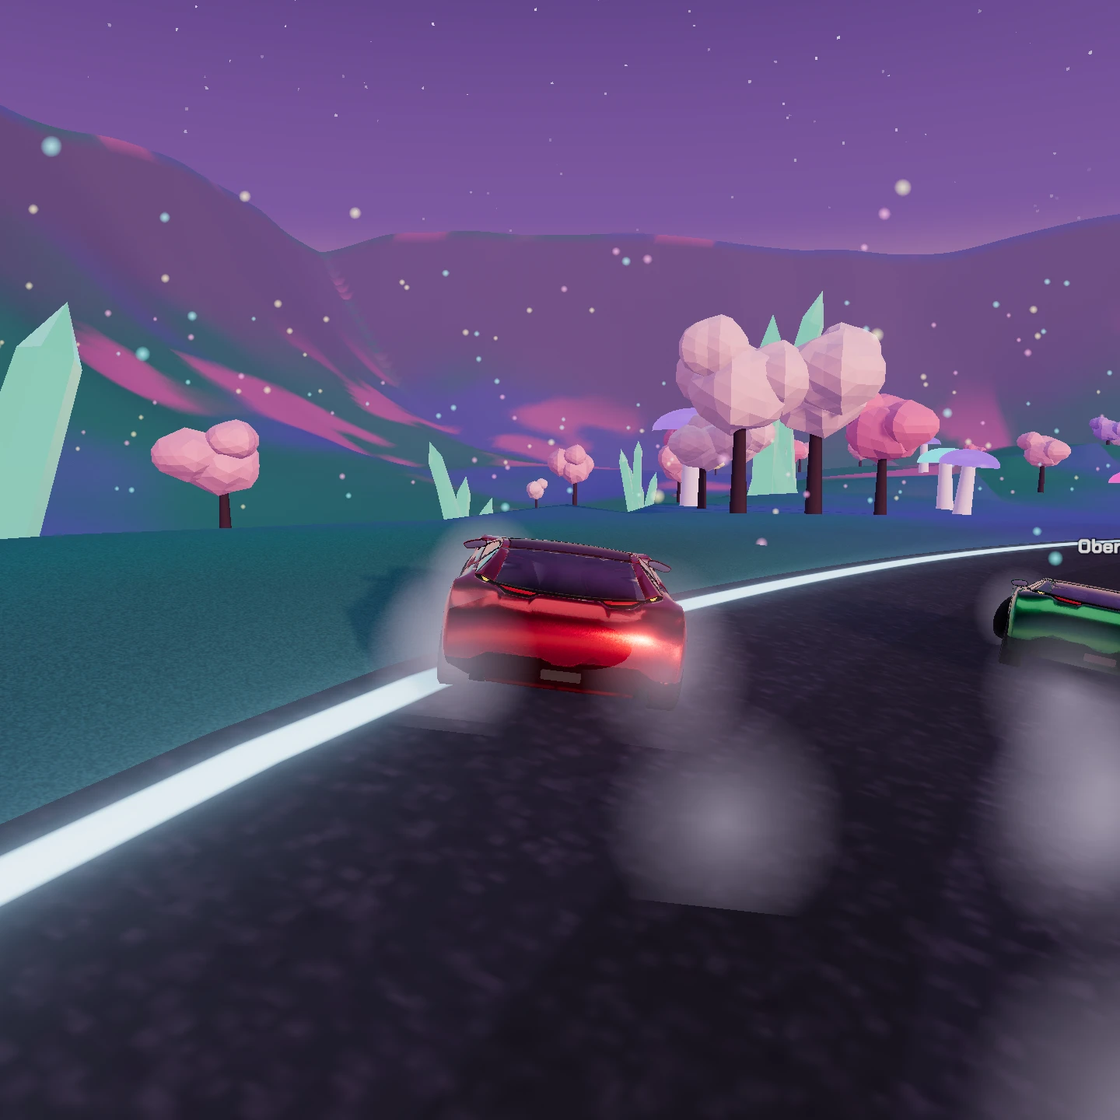
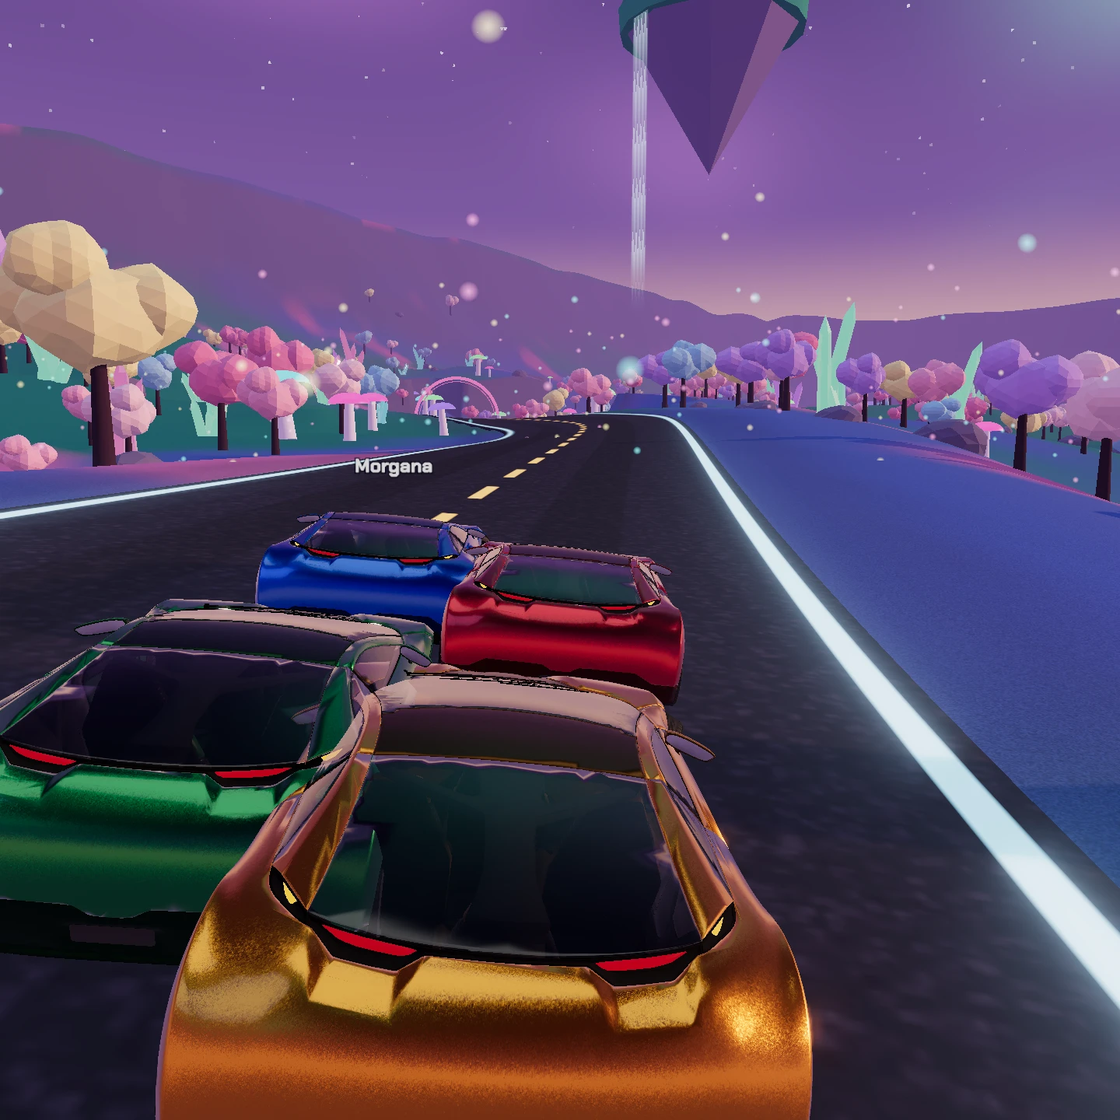
Trackaholic: tilt to steer, drift and nitro
On phones and tablets the car now steers by turning the device like a
steering wheel, where the device allows, with a Steering button beside
Sound to switch back to dragging. Holding the left half of the screen
brakes, or drifts when turning at speed: a light brake with the throttle
on and less grip at the back. Holding the right half fires the nitro, a
tank of extra power that drifting refills faster, shown by a meter under
the lap counter. Drag steering gains a Nitro button and its brake drifts
too; on a keyboard Space drifts and Shift fires the nitro. Bots drive as
before.

diff --git a/static-assets/toys/trackaholic/index.html b/static-assets/toys/trackaholic/index.html
@@ -57,6 +57,18 @@ body{-webkit-user-select:none;user-select:none;-webkit-tap-highlight-color:trans
 .pbtn{position:absolute;border:0;pointer-events:auto;touch-action:none;font:700 16px/1 var(--ui);letter-spacing:.12em;text-transform:uppercase}
 #bBrake{right:max(16px,env(safe-area-inset-right,0px));bottom:calc(env(safe-area-inset-bottom,0px) + 18px);width:clamp(96px,26vw,140px);height:clamp(96px,26vw,140px);border-radius:50%;background:rgba(255,122,200,.88);color:var(--ink);box-shadow:0 0 0 3px rgba(246,243,255,.5)}
 #bBrake.on{background:var(--snow);transform:scale(.96)}
+#bNitro{right:max(16px,env(safe-area-inset-right,0px));bottom:calc(env(safe-area-inset-bottom,0px) + 30px + clamp(96px,26vw,140px));width:clamp(72px,19vw,100px);height:clamp(72px,19vw,100px);border-radius:50%;background:rgba(111,244,255,.88);color:var(--ink);box-shadow:0 0 0 3px rgba(246,243,255,.5)}
+#bNitro.on{background:var(--snow);transform:scale(.96)}
+/* tilt steering: the left half brakes (and drifts in a bend), the right half fires the nitro */
+.tzone{position:absolute;top:0;bottom:0;width:50%;pointer-events:auto;touch-action:none;display:none}
+#tiltL{left:0}#tiltR{right:0}
+.tzone span{position:absolute;bottom:calc(env(safe-area-inset-bottom,0px) + 20px);font:700 13px/1.3 var(--ui);letter-spacing:.12em;text-transform:uppercase;opacity:.7;text-shadow:0 1px 4px var(--ink)}
+#tiltL span{left:max(16px,env(safe-area-inset-left,0px))}#tiltR span{right:max(16px,env(safe-area-inset-right,0px));text-align:right}
+.tzone.on{background:radial-gradient(circle at 50% 80%,rgba(246,243,255,.12),transparent 60%)}
+#pad.tilt .tzone{display:block}#pad.tilt #steerZone,#pad.tilt #bBrake,#pad.tilt #bNitro{display:none}
+#hNitro{width:96px;height:6px;border-radius:3px;background:rgba(246,243,255,.2);overflow:hidden;margin-top:4px}
+#hNitro i{display:block;height:100%;width:100%;background:var(--glow);transform-origin:left;box-shadow:0 0 8px var(--glow)}
+#hNitro.on i{background:var(--snow)}
 #bBrake small{display:block;font-size:10px;letter-spacing:.08em;margin-top:5px;opacity:.75}
 #bReset{left:50%;transform:translateX(-50%);top:calc(env(safe-area-inset-top,0px) + 12px);padding:8px 12px;background:var(--ink2);color:var(--snow);border:1px solid var(--mist);font-size:11px}
 /* screens */
@@ -127,8 +139,10 @@ body.hostdrive #tvBar .btn{white-space:nowrap}
 #scanner video{width:min(92vw,520px);max-height:62vh;object-fit:cover;border:3px solid var(--snow)}
 #scanMsg{font:700 16px/1.3 var(--ui);margin:0;text-align:center}
 #netNote{position:absolute;left:50%;bottom:calc(env(safe-area-inset-bottom,0px) + 16px);transform:translateX(-50%);background:var(--rose);color:var(--ink);font:700 15px/1.3 var(--ui);padding:10px 14px;border-radius:8px;max-width:calc(100% - 32px);z-index:9}
-#mute{position:absolute;bottom:calc(env(safe-area-inset-bottom,0px) + 14px);left:50%;transform:translateX(-50%);font:700 11px/1 var(--ui);letter-spacing:.14em;text-transform:uppercase;background:var(--ink2);color:var(--snow);border:1px solid var(--mist);border-radius:999px;padding:7px 11px;cursor:pointer}
-body.racing #mute{display:none}
+#pills{position:absolute;bottom:calc(env(safe-area-inset-bottom,0px) + 14px);left:50%;transform:translateX(-50%);display:flex;gap:8px}
+#pills button{font:700 11px/1 var(--ui);letter-spacing:.14em;text-transform:uppercase;background:var(--ink2);color:var(--snow);border:1px solid var(--mist);border-radius:999px;padding:7px 11px;cursor:pointer}
+body.racing #pills{display:none}
+#steerMode[hidden]{display:none}
 .touchonly{display:none}
 @media (pointer:coarse){.touchonly{display:contents}.deskonly{display:none}}
 </style>
@@ -138,7 +152,7 @@ body.racing #mute{display:none}
 <div id="ui">
   <div id="hud" hidden>
     <div class="c tl"><div id="hPos" class="big">1<sup>st</sup></div><div class="lbl" id="hOf">of 1</div></div>
-    <div class="c tr"><div id="hTime" class="mid num">0:00.00</div><div class="lbl" id="hLap">Lap 1 / 3</div></div>
+    <div class="c tr"><div id="hTime" class="mid num">0:00.00</div><div class="lbl" id="hLap">Lap 1 / 3</div><div id="hNitro" title="Nitro"><i></i></div></div>
     <div class="c br deskonly"><div id="hSpd">0</div><div class="lbl">km/h</div></div>
     <div id="hWrong" hidden>Wrong way</div>
     <div id="call"></div>
@@ -147,7 +161,10 @@ body.racing #mute{display:none}
   <canvas id="mini" hidden></canvas>
   <div id="pad" hidden>
     <div id="steerZone"><div id="stick"><i></i></div><div id="stickHint">Drag here to steer. The car accelerates by itself.</div></div>
-    <button class="pbtn" id="bBrake" type="button">Brake<small>hold to reverse</small></button>
+    <button class="pbtn" id="bBrake" type="button">Brake<small>drift in a bend</small></button>
+    <button class="pbtn" id="bNitro" type="button">Nitro</button>
+    <div class="tzone" id="tiltL"><span>Hold to brake<br>or drift</span></div>
+    <div class="tzone" id="tiltR"><span>Hold for<br>nitro</span></div>
     <button class="pbtn" id="bReset" type="button">Back on track</button>
   </div>
   <div id="tv" hidden>
@@ -166,11 +183,14 @@ body.racing #mute{display:none}
         <dl class="keys deskonly">
           <dt>↑ ↓</dt><dd>Accelerate, brake. Hold ↓ when stopped to reverse.</dd>
           <dt>← →</dt><dd>Steer</dd>
+          <dt>Space</dt><dd>Drift: brake into a bend at speed and the back steps out</dd>
+          <dt>Shift</dt><dd>Nitro, while the meter lasts. Drifting refills it faster.</dd>
           <dt>R</dt><dd>Back on track</dd>
         </dl>
         <dl class="keys touchonly">
-          <dt>Left thumb</dt><dd>Drag sideways to steer</dd>
-          <dt>Right thumb</dt><dd>Brake. The car accelerates by itself. Hold Brake when stopped to reverse.</dd>
+          <dt>Tilt</dt><dd>Turn the device like a steering wheel. The car accelerates by itself. (Or drag to steer: see the Steering button.)</dd>
+          <dt>Left side</dt><dd>Hold to brake. In a bend at speed, it drifts. Hold when stopped to reverse.</dd>
+          <dt>Right side</dt><dd>Hold for nitro, while the meter lasts. Drifting refills it faster.</dd>
         </dl>
       </div>
       <div class="row">
@@ -241,7 +261,7 @@ body.racing #mute{display:none}
 
   <div id="scanner" hidden><video id="video" playsinline muted></video><p id="scanMsg"></p><button class="btn" id="scanCancel" type="button">Cancel</button></div>
   <div id="netNote" hidden></div>
-  <button id="mute" type="button">Sound on</button>
+  <div id="pills"><button id="steerMode" type="button" hidden>Steering: Tilt</button><button id="mute" type="button">Sound on</button></div>
 </div>
 
 <script src="https://cdnjs.cloudflare.com/ajax/libs/qrcode-generator/1.4.4/qrcode.min.js"></script>
@@ -392,7 +412,7 @@ function setWheelGeometry(list){ // list of {name, x, z} in model coordinates (m
 setWheelGeometry([{name:'WheelFrontL',x:0.976,z:1.485},{name:'WheelFrontR',x:-0.976,z:1.485},{name:'WheelRearL',x:0.983,z:-1.314},{name:'WheelRearR',x:-0.983,z:-1.314}]);
 function newCar(id,name,color,kind){
   return{id,name,color,kind,local:false,p:new THREE.Vector3(),q:new THREE.Quaternion(),v:new THREE.Vector3(),w:new THREE.Vector3(),
-    steer:0,thr:0,brk:0,rev:false,revT:0,wc:[0,0,0,0],wcPrev:[0,0,0,0],spin:[0,0,0,0],skid:[0,0,0,0],contact:[false,false,false,false],
+    steer:0,thr:0,brk:0,rev:false,revT:0,nitro:1,boost:false,wc:[0,0,0,0],wcPrev:[0,0,0,0],spin:[0,0,0,0],skid:[0,0,0,0],contact:[false,false,false,false],
     idx:0,lap:0,cp:true,prog:0,done:false,time:0,lapStart:0,best:0,flipT:0,offT:0,wrongT:0,grass:false,hint:-1,slipMax:0,
     buf:[],rs:null,model:null,ai:{lane:0,lt:0,skill:1,prevE:0},bumped:0};
 }
@@ -423,6 +443,10 @@ function stepCar(c,inp,h){
   if(brk>0.5&&vf<0.8&&thr<0.1){c.revT+=h;if(c.revT>0.25)c.rev=true}else c.revT=0;
   if(thr>0.1||brk<0.1)c.rev=c.rev&&brk>0.1&&thr<0.1;
   let drive=thr,brakeIn=brk;if(c.rev){drive=-brk*0.6;brakeIn=0}
+  // a drift is a light brake with the rear tyres letting go; nitro adds power from a tank that drifting refills faster
+  const drifting=!!inp.drift&&vf>9&&!c.rev&&!c.done;if(drifting)brakeIn*=0.25;
+  c.boost=!!inp.nitro&&c.nitro>0&&!c.rev&&!c.done;
+  if(c.boost){c.nitro=Math.max(0,c.nitro-h/2.6);drive=1}else c.nitro=Math.min(1,c.nitro+h/9+(drifting?h/2.5:0));
   if(c.done){drive=0;brakeIn=Math.max(brakeIn,0.25)}
   const maxSt=0.6/(1+Math.max(0,vf)/16);
   c.steer+=clamp(clamp(inp.steer,-1,1)*maxSt-c.steer,-2.4*h,2.4*h);
@@ -442,7 +466,7 @@ function stepCar(c,inp,h){
   c.grass=anyGrass;
   // pass 2: forces
   const vmag=Math.max(Math.abs(vf),4);
-  const driveTotal=drive>=0?drive*Math.min(CAR.fmax,CAR.power/vmag):drive*4500*(vf<-9?0:1);
+  const nb=c.boost?1:0,driveTotal=drive>=0?drive*Math.min(CAR.fmax*(1+0.35*nb),CAR.power*(1+0.75*nb)/vmag):drive*4500*(vf<-9?0:1);
   let slipMax=0;
   for(let k=0;k<4;k++){const wh=W[k];c.wcPrev[k]=c.wc[k];
     if(!c.contact[k]){c.wc[k]=lerp(c.wc[k],0,0.2);c.skid[k]=0;continue}
@@ -457,7 +481,7 @@ function stepCar(c,inp,h){
     _r.subVectors(C,c.p);_vc.crossVectors(c.w,_r).add(c.v);
     const vl=_vc.dot(_wf),vs=_vc.dot(_ws);
     const Fz=Fs*Math.max(0.2,_up.dot(n)),grass=GQ.dist>HALF_W+1;
-    const mu=(grass?CAR.muGrass:CAR.mu)*(wh.front?1:1.07);
+    const mu=(grass?CAR.muGrass:CAR.mu)*(wh.front?1:drifting?0.62:1.07);
     const alpha=Math.atan2(vs,Math.max(Math.abs(vl),2.5));
     let Fy=-mu*Fz*Math.sin(1.55*Math.atan(9*alpha));
     let Fx=driveTotal*(wh.front?0.2:0.3);
@@ -801,34 +825,69 @@ function updateAudio(c){if(!eng||!c)return;const v=Math.abs(c.v.dot(_v1.set(0,0,
   let g=1;while(g<6&&v>GEARS[g])g++;const lo=GEARS[g-1],hi=GEARS[g],rpm=1100+6200*clamp((v-lo*0.6)/(hi-lo*0.6),0,1);
   const f=rpm/60*2,t=ac.currentTime;eng.o1.frequency.setTargetAtTime(f,t,0.03);eng.o2.frequency.setTargetAtTime(f/2,t,0.03);eng.f.frequency.setTargetAtTime(500+rpm*0.25+c.thr*600,t,0.05);
   eng.g.gain.setTargetAtTime(c.done?0.04:0.06+0.08*Math.abs(c.thr),t,0.05);
-  squealG.gain.setTargetAtTime(Math.min(0.25,Math.max(0,c.slipMax-2.5)*0.03),t,0.05);windG.gain.setTargetAtTime(Math.min(0.3,(v/55)**2*0.3),t,0.1)}
+  squealG.gain.setTargetAtTime(Math.min(0.25,Math.max(0,c.slipMax-2.5)*0.03),t,0.05);windG.gain.setTargetAtTime(Math.min(0.3,(v/55)**2*0.3)+(c.boost?0.18:0),t,0.1)}
 const muteBtn=$('#mute');function paintMute(){muteBtn.textContent=muted?'Sound off':'Sound on';if(master)master.gain.value=muted?0:0.5}
 muteBtn.onclick=()=>{muted=!muted;store.set('trackaholic.muted',muted?'1':'0');initAudio();paintMute()};paintMute();
 addEventListener('pointerdown',()=>{if(ac&&ac.state==='suspended')ac.resume()},{passive:true});
 
 /* ================= input ================= */
-const keys={L:0,R:0,U:0,D:0};
-const KMAP={ArrowLeft:'L',KeyA:'L',ArrowRight:'R',KeyD:'R',ArrowUp:'U',KeyW:'U',ArrowDown:'D',KeyS:'D'};
+const keys={L:0,R:0,U:0,D:0,N:0,S:0};
+const KMAP={ArrowLeft:'L',KeyA:'L',ArrowRight:'R',KeyD:'R',ArrowUp:'U',KeyW:'U',ArrowDown:'D',KeyS:'D',ShiftLeft:'N',ShiftRight:'N',KeyN:'N',Space:'S'};
 let kSteer=0;
 addEventListener('keydown',e=>{if(e.target.tagName==='INPUT')return;if(KMAP[e.code]){keys[KMAP[e.code]]=1;if(G.phase==='race'||G.phase==='count')e.preventDefault()}
   if(e.code==='KeyR'&&G.me&&G.me.local&&G.phase==='race')resetCar(G.me)});
 addEventListener('keyup',e=>{if(KMAP[e.code])keys[KMAP[e.code]]=0});
-const touch={id:null,x0:0,steer:0,brake:false};
+const touch={id:null,x0:0,steer:0,brake:false,drift:false,nitro:false};
 const zone=$('#steerZone'),stick=$('#stick'),knob=stick.firstElementChild;
 zone.addEventListener('pointerdown',e=>{if(touch.id!==null)return;touch.id=e.pointerId;touch.x0=e.clientX;zone.setPointerCapture(e.pointerId);
   stick.style.left=e.clientX+'px';stick.style.top=e.clientY+'px';stick.classList.add('on');knob.style.transform='';$('#stickHint').hidden=true});
 zone.addEventListener('pointermove',e=>{if(e.pointerId!==touch.id)return;const dx=clamp(e.clientX-touch.x0,-70,70);touch.steer=Math.sign(dx)*Math.pow(Math.abs(dx)/70,1.3);knob.style.transform='translateX('+dx+'px)'});
 const tUp=e=>{if(e.pointerId!==touch.id)return;touch.id=null;touch.steer=0;stick.classList.remove('on')};
 zone.addEventListener('pointerup',tUp);zone.addEventListener('pointercancel',tUp);
-{const el=$('#bBrake');el.addEventListener('pointerdown',e=>{e.preventDefault();touch.brake=true;el.classList.add('on');try{el.setPointerCapture(e.pointerId)}catch(x){}});
-  ['pointerup','pointercancel','lostpointercapture'].forEach(t=>el.addEventListener(t,()=>{touch.brake=false;el.classList.remove('on')}))}
+// hold-to-act touch areas: the nitro button, and the two halves of the screen when steering by tilt
+function holdArea(el,on,off){el.addEventListener('pointerdown',e=>{e.preventDefault();on();el.classList.add('on');try{el.setPointerCapture(e.pointerId)}catch(x){}});
+  ['pointerup','pointercancel','lostpointercapture'].forEach(t=>el.addEventListener(t,()=>{off();el.classList.remove('on')}))}
+holdArea($('#bBrake'),()=>{touch.brake=touch.drift=true},()=>{touch.brake=touch.drift=false});
+holdArea($('#bNitro'),()=>{touch.nitro=true},()=>{touch.nitro=false});
+holdArea($('#tiltL'),()=>{touch.brake=touch.drift=true},()=>{touch.brake=touch.drift=false});
+holdArea($('#tiltR'),()=>{touch.nitro=true},()=>{touch.nitro=false});
 $('#bReset').onclick=()=>{if(G.me&&G.me.local&&G.phase==='race')resetCar(G.me)};
-addEventListener('blur',()=>{keys.L=keys.R=keys.U=keys.D=0;touch.steer=0;touch.brake=false});
+addEventListener('blur',()=>{keys.L=keys.R=keys.U=keys.D=keys.N=keys.S=0;touch.steer=0;touch.brake=touch.drift=touch.nitro=false});
+
+/* ----- tilt steering: turn the device like a steering wheel. The angle of gravity in the plane of the screen,
+   measured from where it was when the race started, so it works however the device is held, and iOS and
+   Android reporting gravity with opposite signs makes no difference. iOS asks permission, so askTilt() is
+   called from the taps that start or join a race */
+const TILT_ABLE=IS_TOUCH&&'DeviceMotionEvent' in window;
+const tilt={pref:store.get('trackaholic.steer')||(TILT_ABLE?'tilt':'drag'),ok:false,on:false,raw:0,zero:null,steer:0};
+function onMotion(e){const g=e.accelerationIncludingGravity;if(!g||g.x==null)return;
+  if(Math.hypot(g.x,g.y)>2.5)tilt.raw=Math.atan2(g.x,g.y); // too flat to tell otherwise: keep the last angle
+  if(tilt.zero===null)tilt.zero=tilt.raw;
+  if(!tilt.ok){tilt.ok=true;paintPad()}}
+function listenTilt(){if(!tilt.on){tilt.on=true;addEventListener('devicemotion',onMotion)}}
+function askTilt(){
+  if(!TILT_ABLE||tilt.pref!=='tilt')return;
+  const D=window.DeviceMotionEvent;
+  if(D&&typeof D.requestPermission==='function')D.requestPermission().then(r=>{if(r==='granted')listenTilt();else{tilt.pref='drag';paintSteer()}}).catch(()=>{});
+  else listenTilt()}
+function tiltZero(){tilt.zero=tilt.raw;tilt.steer=0}
+function tiltSteer(dt){
+  let d=tilt.raw-tilt.zero;d=Math.atan2(Math.sin(d),Math.cos(d));
+  const deg=-d*180/Math.PI,a=Math.abs(deg),s=a<1.5?0:Math.sign(deg)*Math.pow(Math.min(1,(a-1.5)/26.5),1.15);
+  tilt.steer+=(s-tilt.steer)*Math.min(1,dt*18);return tilt.steer}
+const tiltMode=()=>tilt.pref==='tilt'&&tilt.ok;
+function paintPad(){$('#pad').classList.toggle('tilt',tiltMode())}
+function paintSteer(){const b=$('#steerMode');b.hidden=!TILT_ABLE;b.textContent='Steering: '+(tilt.pref==='tilt'?'Tilt':'Drag');paintPad()}
+$('#steerMode').onclick=()=>{tilt.pref=tilt.pref==='tilt'?'drag':'tilt';store.set('trackaholic.steer',tilt.pref);askTilt();paintSteer()};
+paintSteer();if(TILT_ABLE&&tilt.pref==='tilt'&&!(window.DeviceMotionEvent&&typeof DeviceMotionEvent.requestPermission==='function'))listenTilt();
 function playerInput(dt){
   const k=keys.R-keys.L;kSteer+=clamp(k-kSteer,-4*dt,4*dt);if(!k&&Math.abs(kSteer)<0.06)kSteer=0;
-  const autoGas=IS_TOUCH; // on a phone the car accelerates by itself; the right thumb only brakes
-  const brk=keys.D||touch.brake?1:0;
-  return{steer:clamp(kSteer+touch.steer,-1,1),thr:brk?0:(keys.U||autoGas?1:0),brk};
+  const autoGas=IS_TOUCH; // on a phone the car accelerates by itself; the thumbs brake, drift and fire the nitro
+  const me=G.me,fast=me&&me.v.dot(_v1.set(0,0,1).applyQuaternion(me.q))>9;
+  const steer=clamp(kSteer+(tiltMode()?tiltSteer(dt):touch.steer),-1,1);
+  // braking while turning at speed drifts; braking in a straight line just brakes
+  const drift=(keys.S||touch.drift)&&fast&&Math.abs(steer)>0.25,brk=keys.D||keys.S||touch.brake?1:0;
+  return{steer,thr:brk&&!drift?0:(keys.U||autoGas?1:0),brk,drift,nitro:!!(keys.N||touch.nitro)};
 }
 
 /* ================= game state ================= */
@@ -849,7 +908,7 @@ async function setupRace(spec){ // spec: {seed, raceId, entrants:[{id,name,color
     return c});
   G.me=G.cars.find(c=>c.id===spec.meId)||null;
   if(G.me&&AUTO)G.me.ai.skill=1.02;
-  G.t0=now()+spec.cd*1000/SPEED;G.phase='count';G.lastCount=99;camSnap=true;
+  G.t0=now()+spec.cd*1000/SPEED;G.phase='count';G.lastCount=99;camSnap=true;tiltZero();
 }
 // network state: position, orientation, velocity, steering, flags, suspension, lap progress
 const pack=c=>{const r=x=>Math.round(x*1000)/1000;return[r(c.p.x),r(c.p.y),r(c.p.z),r(c.q.x),r(c.q.y),r(c.q.z),r(c.q.w),r(c.v.x),r(c.v.y),r(c.v.z),r(c.steer),(c.brk>0.05?1:0)|(c.rev?2:0)|(c.done?8:0),...c.wc.map(r),Math.round(c.prog*10)/10,r(c.thr)]};
@@ -897,7 +956,7 @@ function showResults(rows){
 
 /* ================= screens ================= */
 function showScreen(id){document.querySelectorAll('.screen').forEach(s=>s.hidden=s.id!==id)}
-function showHUD(on){const host=G.mode==='host',watching=host&&!G.me;document.body.classList.toggle('racing',!!on);document.body.classList.toggle('hostdrive',!!on&&host&&!!G.me);$('#hud').hidden=!on||!G.me;$('#pad').hidden=!on||!IS_TOUCH||!G.me;$('#tv').hidden=!(on&&watching);$('#tvBar').hidden=!(on&&host);$('#mini').hidden=!on}
+function showHUD(on){const host=G.mode==='host',watching=host&&!G.me;document.body.classList.toggle('racing',!!on);document.body.classList.toggle('hostdrive',!!on&&host&&!!G.me);$('#hud').hidden=!on||!G.me;$('#pad').hidden=!on||!IS_TOUCH||!G.me;$('#tv').hidden=!(on&&watching);$('#tvBar').hidden=!(on&&host);$('#mini').hidden=!on;paintPad()}
 let soloBots=+(store.get('trackaholic.bots')||5);
 function newSeed(){G.seed=1000+Math.floor(Math.random()*9000)}
 function showTitle(){G.mode='solo';G.phase='title';showHUD(false);showScreen('sTitle');$('#soloBots').textContent=soloBots;$('#soloLaps').textContent=G.laps;
@@ -906,7 +965,7 @@ function showTitle(){G.mode='solo';G.phase='title';showHUD(false);showScreen('sT
 async function startSolo(){initAudio();G.mode='solo';
   const ents=[{id:'me',name:'You',color:COLORS[0],kind:'human'}];for(let i=0;i<soloBots;i++)ents.push({id:'b'+i,name:BOT_NAMES[i],color:COLORS[i+1],kind:'bot'});
   showScreen('none');await setupRace({seed:G.seed,raceId:++G.raceId,entrants:ents,meId:'me',cd:3.5,laps:G.laps});showHUD(true)}
-$('#bSolo').onclick=startSolo;
+$('#bSolo').onclick=()=>{askTilt();startSolo()};
 $('#soloBotsM').onclick=()=>{soloBots=Math.max(0,soloBots-1);store.set('trackaholic.bots',soloBots);$('#soloBots').textContent=soloBots};
 $('#soloBotsP').onclick=()=>{soloBots=Math.min(7,soloBots+1);store.set('trackaholic.bots',soloBots);$('#soloBots').textContent=soloBots};
 $('#soloLapsM').onclick=()=>{G.laps=Math.max(1,G.laps-1);store.set('trackaholic.laps',G.laps);showTitle()};
@@ -944,7 +1003,7 @@ function chaseCam(c,dt,dist,height,snap){
   _l.set(st.p.x+cam.dir.x*5,st.p.y+0.7,st.p.z+cam.dir.z*5);
   const k=snap?1:1-Math.exp(-dt*9);cam.pos.lerp(_t,k);cam.look.lerp(_l,snap?1:1-Math.exp(-dt*12));
   camera.position.copy(cam.pos);camera.lookAt(cam.look);
-  camera.fov=lerp(camera.fov,clamp(60+sp*0.42,60,84)+(port?12:0),1-Math.exp(-dt*3));camera.updateProjectionMatrix();
+  camera.fov=lerp(camera.fov,clamp(60+sp*0.42,60,84)+(port?12:0)+(c.boost?10:0),1-Math.exp(-dt*3));camera.updateProjectionMatrix();
 }
 // the watching view (a host that isn't driving, or a phone that joined mid-race): follows one car at a time, cutting between chase, high chase and trackside shots
 const TV={focus:null,t:99,mode:0,side:new THREE.Vector3(),
@@ -972,7 +1031,7 @@ function frame(){
     const rc=raceClock();
     if(G.phase==='count'){const n=Math.ceil(-rc);
       if(n!==G.lastCount&&n>=0&&n<=3){G.lastCount=n;$('#count').textContent=n>0?n:'Go';sfx.beep(n===0)}
-      if(rc>=0){G.phase='race';for(const c of G.cars)c.lapStart=0;setTimeout(()=>{if($('#count').textContent==='Go')$('#count').textContent=''},700)}}
+      if(rc>=0){G.phase='race';tiltZero();for(const c of G.cars)c.lapStart=0;setTimeout(()=>{if($('#count').textContent==='Go')$('#count').textContent=''},700)}}
     const pin=G.me&&G.me.local&&!AUTO?playerInput(dt):null;
     acc+=dt;let steps=0;const h=1/HZ;
     while(acc>=h&&steps<10){acc-=h;steps++;
@@ -1013,6 +1072,7 @@ function updateHud(){
   $('#hLap').textContent=me.done?'Finished':'Lap '+clamp(me.lap,1,G.laps)+' / '+G.laps;
   $('#hSpd').textContent=Math.round(me.v.length()*3.6);
   $('#hWrong').hidden=!(me.wrongT>1.2);
+  const nm=$('#hNitro');nm.hidden=!me.local;nm.firstElementChild.style.transform='scaleX('+(me.nitro||0).toFixed(3)+')';nm.classList.toggle('on',!!me.boost);
 }
 
 /* ================= QR + WebRTC transport (adapted from Bowling Bear) ================= */
@@ -1105,7 +1165,7 @@ const HOST={peers:new Map(),pending:null,guestN:0,spares:new Map(),spareN:0,grac
     $('#lapsP').onclick=()=>{G.laps=Math.min(9,G.laps+1);store.set('trackaholic.laps',G.laps);this.lobbyUpdate()};
     $('#hostDrive').onclick=()=>{this.drive=!this.drive;store.set('trackaholic.hostdrive',this.drive?'1':'0');this.lobbyUpdate()};
     $('#hostName').value=store.get('trackaholic.name')||'';$('#hostName').oninput=()=>{store.set('trackaholic.name',$('#hostName').value.trim());this.lobbyUpdate()};
-    $('#bStart').onclick=()=>this.start();
+    $('#bStart').onclick=()=>{askTilt();this.start()};
     $('#tvEnd').onclick=()=>this.results(resultRows());
     $('#tvJoin').onclick=()=>{const c=$('#tvJoinCard');c.hidden=!c.hidden};
     $('#pasteGo').onclick=()=>{const v=$('#pasteIn').value;$('#pasteIn').value='';this.accept(v)};
@@ -1212,7 +1272,7 @@ const GU={live:null,spares:[],heard:0,rescuing:false,ping:0,tryT:0,id:null,lobby
     G.mode='guest';G.phase='join';NET.send=m=>this.send(m);showScreen('sJoin');
     $('#nameIn').value=store.get('trackaholic.name')||'';
     if(!window.RTCPeerConnection){setStatus('#joinStatus','This browser can’t join. Try Safari or Chrome.',true);return}
-    $('#bJoin').onclick=()=>{initAudio();const nm=$('#nameIn').value.trim()||'Driver';store.set('trackaholic.name',nm);this.join(code)};
+    $('#bJoin').onclick=()=>{initAudio();askTilt();const nm=$('#nameIn').value.trim()||'Driver';store.set('trackaholic.name',nm);this.join(code)};
   },
   async join(code){
     try{$('#bJoin').disabled=true;setStatus('#joinStatus','Making a reply…');

diff --git a/toys-src/trackaholic/HANDOVER.md b/toys-src/trackaholic/HANDOVER.md
@@ -54,7 +54,17 @@ Trackaholic isn't meant to be projected: the players gather round, each looking 
 - Auto-reset when flipped or lost.
 - Manual reset: the R key, or the “Back on track” button.
 - Simulation runs at 120 Hz.
-- Phone controls: throttle is automatic, the left thumb steers, and the right thumb brakes (which reverses when stopped).
+- Phone controls: throttle is automatic; see Tilt, drift and nitro below for steering, braking and the nitro.
+
+## Tilt, drift and nitro (2026-10-30)
+
+- **Tilt steering** is the default wherever it's available (`TILT_ABLE`: a touch screen and `DeviceMotionEvent`). `onMotion` keeps the angle of gravity in the plane of the screen, `atan2(g.x, g.y)` from `accelerationIncludingGravity`; `tiltSteer` measures it from `tilt.zero`, taken when the countdown starts and again at Go. Turning the device like a wheel is a rotation about the screen's normal, so this works in portrait or landscape and however far the device leans back, and iOS and Android reporting gravity with opposite signs (a half turn) cancels out. Full lock at 28°, a 1.5° dead zone, smoothed. Below 2.5 m/s² in the screen's plane (lying nearly flat) the last angle is kept.
+- iOS needs permission: `askTilt()` calls `DeviceMotionEvent.requestPermission()` from the taps that start or join a race (Race, Join, the host's Start) and from the Steering pill. Refused, it falls back to drag. The pad only switches to tilt (`#pad.tilt`) once a reading has arrived (`tilt.ok`), so a device without the sensor keeps the drag controls.
+- The "Steering: Tilt / Drag" pill sits beside Sound on touch devices; the choice is stored as `trackaholic.steer`.
+- **Controls with tilt:** holding the left half of the screen (`#tiltL`) brakes, and in a bend at speed drifts; holding the right half (`#tiltR`) fires the nitro. With drag steering, the brake button drifts too, and a Nitro button sits above it. Keyboard: Space drifts, Shift or N for nitro.
+- **Drift** (`inp.drift`, sent only when braking while steering more than a quarter lock above 9 m/s): the brake drops to a quarter, the throttle stays on and the rear tyres' grip falls to 0.62 of the fronts', so the back steps out; the existing skid smoke and squeal follow. Holding it when stopped still reverses.
+- **Nitro** (`inp.nitro`): `c.nitro` is a tank from 0 to 1, full at the start, drained in 2.6 s while boosting and refilled in 9 s, faster (an extra 1 per 2.5 s) while drifting. Boosting gives 75% more power and 35% more maximum drive force, widens the chase camera by 10° and adds wind noise. The meter (`#hNitro`) is under the lap counter.
+- Bots never send `drift` or `nitro`, so they drive as before. Neither is in the network packet: other devices see a drifting or boosting car only through how it moves.
 
 ## Network
 
